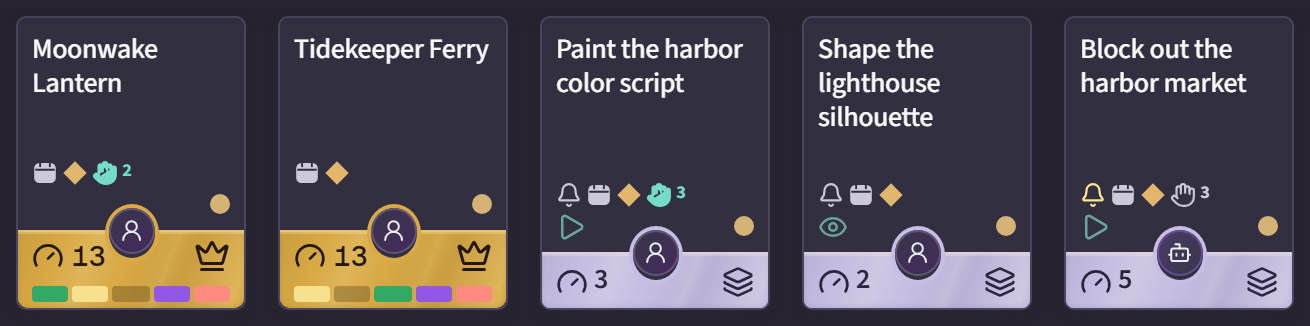
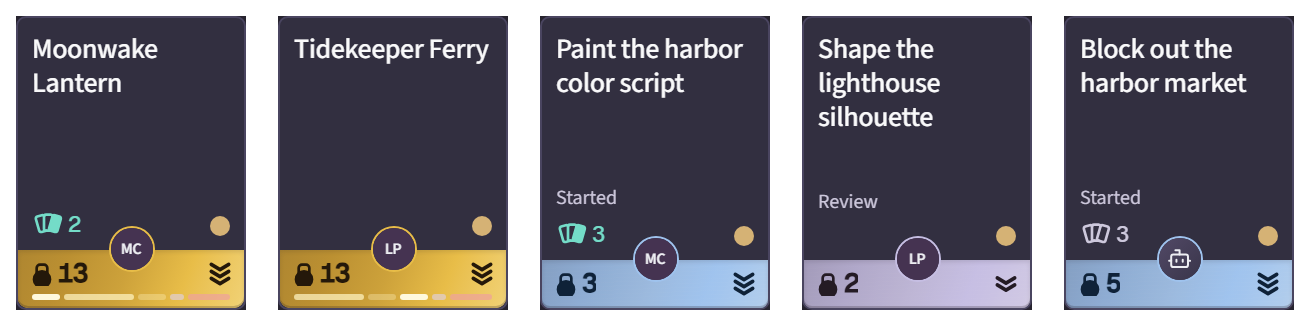
fix(desktop): start screen in the current design and a passing shell smoke
The launcher art and layout follow the board's tiles in both themes; the
smoke script matches the current shell steps.

diff --git a/tools/desktop-smoke.ts b/tools/desktop-smoke.ts
@@ -197,7 +197,8 @@ async function pasteInEditors(boardOrigin: string): Promise<void> {
   await shortcut('z', 'KeyZ', 90);
   await poll(async () => (await page!.evaluate(`document.querySelector('.card-edit-text').value === window.__smokeCardBeforePaste`)) === true,
     'Undo to restore the card before closing its editor', 5000);
-  await page!.evaluate(`document.querySelector('.card-edit .is-cancel').click()`);
+  // 2026-11-11: the editor footer is portaled outside its form, so Cancel belongs to the footer, not .card-edit.
+  await page!.evaluate(`document.querySelector('.card-edit-footer .is-cancel:not(:disabled)').click()`);
   await poll(async () => (await page!.evaluate(`!document.querySelector('.card-edit-text') && !document.querySelector('.global-tabs button:last-child').disabled`)) === true,
     'the unchanged card editor to close', 5000);
   pass('b-card-paste', 'CDP Ctrl+V reached the real card editor; Undo restored its text without saving');
@@ -235,10 +236,12 @@ async function pasteInEditors(boardOrigin: string): Promise<void> {
 
 function switchProjectShortcut(pid: number): void {
   // 2026-11-09: CDP input reaches only the renderer, so native AcceleratorKeyPressed needs Win32 virtual-key input.
+  // 2026-11-11: raising a background debug window needs both the foreground and target input queues attached.
   execFileSync('powershell', ['-NoProfile', '-NonInteractive', '-Command', `
     Add-Type -TypeDefinition 'using System; using System.Runtime.InteropServices; public class DeckmateKeys {
       [DllImport("user32.dll")] public static extern IntPtr GetForegroundWindow();
       [DllImport("user32.dll")] static extern bool SetForegroundWindow(IntPtr hwnd);
+      [DllImport("user32.dll")] static extern bool BringWindowToTop(IntPtr hwnd);
       [DllImport("user32.dll")] static extern bool ShowWindowAsync(IntPtr hwnd, int command);
       [DllImport("user32.dll")] static extern uint GetWindowThreadProcessId(IntPtr hwnd, IntPtr process);
       [DllImport("user32.dll")] static extern bool AttachThreadInput(uint from, uint to, bool attach);
@@ -248,16 +251,23 @@ function switchProjectShortcut(pid: number): void {
         ShowWindowAsync(hwnd, 9);
         uint foreground = GetWindowThreadProcessId(GetForegroundWindow(), IntPtr.Zero);
         uint current = GetCurrentThreadId();
+        uint target = GetWindowThreadProcessId(hwnd, IntPtr.Zero);
         bool attached = foreground != current && AttachThreadInput(current, foreground, true);
-        SetForegroundWindow(hwnd);
-        if (attached) AttachThreadInput(current, foreground, false);
+        bool targetAttached = target != current && target != foreground && AttachThreadInput(current, target, true);
+        try {
+          BringWindowToTop(hwnd);
+          SetForegroundWindow(hwnd);
+        } finally {
+          if (targetAttached) AttachThreadInput(current, target, false);
+          if (attached) AttachThreadInput(current, foreground, false);
+        }
       }
     }';
     $window = (Get-Process -Id ${pid}).MainWindowHandle;
     if ($window -eq 0) { throw 'Main window not found'; }
     [DeckmateKeys]::Focus($window);
     Start-Sleep -Milliseconds 200;
-    if ([DeckmateKeys]::GetForegroundWindow() -ne $window) { throw 'Could not focus the debug window'; }
+    if ([DeckmateKeys]::GetForegroundWindow() -ne $window) { throw "Could not focus the debug window: expected=$window; actual=$([DeckmateKeys]::GetForegroundWindow())"; }
     [DeckmateKeys]::keybd_event(0x11, 0, 0, [UIntPtr]::Zero);
     [DeckmateKeys]::keybd_event(0x10, 0, 0, [UIntPtr]::Zero);
     [DeckmateKeys]::keybd_event(0x50, 0, 0, [UIntPtr]::Zero);
@@ -411,18 +421,23 @@ async function main(): Promise<number> {
     // 2026-11-09: writeText needs a focused document; when another window owns the desktop focus the
     // check failed with "Document is not focused", so the page is told it has focus for this step.
     await page!.send('Emulation.setFocusEmulationEnabled', { enabled: true });
-    const clipboard = await page!.callFunction(`async () => {
-      try {
-        await navigator.clipboard.writeText('deckmate-smoke');
-        let readDenied = false;
-        try { await navigator.clipboard.readText(); } catch { readDenied = true; }
-        return { written: true, readDenied };
-      } catch (error) { return { written: false, error: String(error) }; }
-    }`);
-    if (!clipboard.written || !clipboard.readDenied) {
+    // 2026-11-11: focus alone is not user activation; CDP supplies the gesture context without granting clipboard permissions.
+    const clipboardResponse = await page!.send('Runtime.evaluate', {
+      expression: `(async () => {
+        try {
+          await navigator.clipboard.writeText('deckmate-smoke');
+          let readDenied = false;
+          try { await navigator.clipboard.readText(); } catch { readDenied = true; }
+          return { written: true, readDenied };
+        } catch (error) { return { written: false, error: String(error) }; }
+      })()`,
+      userGesture: true, returnByValue: true, awaitPromise: true,
+    });
+    const clipboard = clipboardResponse.result?.result?.value;
+    if (!clipboard?.written || !clipboard.readDenied) {
       throw new SmokeFailure(`clipboard write/read policy failed: ${JSON.stringify(clipboard)}`);
     }
-    pass('b-clipboard', 'clipboard.writeText resolved; clipboard.readText was denied');
+    pass('b-clipboard', 'clipboard.writeText resolved with a user gesture; clipboard.readText was denied');
     const notification = await page!.callFunction(`() => Notification.requestPermission()`);
     if (notification !== 'denied') throw new SmokeFailure(`notifications were not denied: ${notification}`);
     pass('b-notifications', 'Notification.requestPermission resolved denied without a prompt');
@@ -611,8 +626,9 @@ async function main(): Promise<number> {
       }
       await page!.callFunction(`() => removeRecent('C:\\\\missing-smoke-project')`);
       if ((await page!.evaluate(`document.getElementById('status').dataset.phase`)) !== 'error') throw new SmokeFailure('removeRecent UI hid a failed save');
-      await page!.evaluate(`document.querySelector('[data-lang="en"]').click()`);
-      await poll(async () => (await page!.evaluate(`document.getElementById('status').dataset.phase === 'error' && document.getElementById('status-text').textContent.includes('Could not save settings')`)) === true,
+      // 2026-11-11: a failed language save keeps the existing UI locale; clear the earlier error to verify this click reports its own.
+      await page!.evaluate(`setStatus(null); document.querySelector('[data-lang="en"]').click()`);
+      await poll(async () => (await page!.evaluate(`document.getElementById('status').dataset.phase === 'error' && document.getElementById('status-text').textContent.startsWith(document.documentElement.lang === 'ru' ? 'Не удалось сохранить настройки.' : 'Settings could not be saved.')`)) === true,
         'language save error to reach the status line', 5000);
     } finally {
       rmSync(settingsFile, { recursive: true, force: true });
@@ -926,11 +942,19 @@ async function main(): Promise<number> {
         `failed auto-open ${attempt} to return to a loaded launcher with an error`, 30000);
         // Let late NavigationCompleted events arrive before checking that the cause stayed intact.
         await sleep(1000);
-        const message = String(await page!.evaluate(`document.getElementById('status-text').textContent`));
+        // 2026-11-11: the status gives recovery advice; the original server refusal is shown under Technical details.
+        await page!.evaluate(`document.querySelector('#status-details > summary').click()`);
+        const failure = await page!.callFunction(`() => ({
+          message: document.getElementById('status-text').textContent,
+          technical: document.getElementById('status-technical').textContent,
+          detailsVisible: !document.getElementById('status-details').hidden && document.getElementById('status-details').open,
+        })`);
         const failureLog = readFileSync(path.join(settings, 'server.log'), 'utf8').slice(beforeFailureLog.length);
-        if (!message.includes('The path is outside the project.') || message.includes('WebView2')
+        if (!failure.detailsVisible || !failure.message.startsWith('The local server could not start.')
+          || !failure.technical.includes('The path is outside the project.')
+          || failure.message.includes('WebView2') || failure.technical.includes('WebView2')
           || !failureLog.includes('project launch failed:') || !failureLog.includes('The path is outside the project.')) {
-          throw new SmokeFailure(`failed auto-open ${attempt} lost the server refusal: ${message}`);
+          throw new SmokeFailure(`failed auto-open ${attempt} lost the server refusal: ${JSON.stringify(failure)}`);
         }
       } catch (error) {
         throw new SmokeFailure(`${(error as Error).message} (${await diagnose(settings)})`);
@@ -941,7 +965,7 @@ async function main(): Promise<number> {
       await poll(async () => serverProcesses(needles).length === 0,
         `failed auto-open ${attempt} to leave no server`, 10000);
     }
-    pass('startup-failure', 'three consecutive lastProject launches kept the real server refusal on the loaded launcher and in server.log, not a WebView2 error');
+    pass('startup-failure', 'three consecutive lastProject launches kept the real server refusal in the launcher technical details and server.log, not a WebView2 error');
 
     pass('smoke', 'all steps passed');
     return 0;
@@ -955,7 +979,8 @@ async function main(): Promise<number> {
       if (page) await page.close();
     } catch { /* the shell is already gone */ }
     await sleep(500);
-    rmSync(temp, { recursive: true, force: true });
+    // 2026-11-11: WebView2 can briefly retain profile handles after taskkill; retry only this run's temporary folder.
+    rmSync(temp, { recursive: true, force: true, maxRetries: 15, retryDelay: 100 });
   }
 }
 

diff --git a/tools/launcher-capture.ts b/tools/launcher-capture.ts
@@ -15,7 +15,7 @@ const output = process.env.DECKMATE_LAUNCHER_CAPTURE_OUTPUT || path.join(here, '
 
 interface Frame {
   name: string; theme: 'dark' | 'light'; lang: 'en' | 'ru'; size: [number, number]; page?: 'whats-new';
-  state?: 'empty' | 'error' | 'hover-row' | 'focus-open' | 'focus-row' | 'focus-workspace';
+  state?: 'empty' | 'one' | 'error' | 'hover-row' | 'focus-open' | 'focus-row' | 'focus-workspace';
   scenario?: 'empty' | 'many' | 'missing' | 'opening' | 'error' | 'create';
   error?: string; zoom?: number; reducedMotion?: boolean;
   expand?: 'templates' | 'details';
@@ -50,6 +50,10 @@ const errorCodes = ['invalid-path', 'missing', 'not-empty', 'create-failed', 'st
 for (const theme of ['dark', 'light'] as const) {
   for (const lang of ['en', 'ru'] as const) {
     for (const size of [[960, 600], [1280, 820]] as [number, number][]) {
+      if ((theme === 'dark' && lang === 'ru') || (theme === 'light' && lang === 'en')) {
+        frames.push({ name: `${theme}-${lang}-${size[0]}`, theme, lang, size, covers: size[1] > 680 ? 'visible' : 'hidden' });
+      }
+      frames.push({ name: `${theme}-${lang}-one-${size[0]}`, theme, lang, size, state: 'one' });
       for (const scenario of ['empty', 'many', 'missing', 'opening', 'create'] as const) {
         frames.push({ name: `${theme}-${lang}-${scenario}-${size[0]}`, theme, lang, size, scenario });
       }
@@ -82,6 +86,7 @@ const STATE_SCRIPTS: Record<string, string> = {
   empty: `document.getAnimations().forEach(a => a.finish());
     state.recent = []; state.workspace = []; renderWorkspace(); renderRecent();
     document.getElementById('open-folder').focus();`,
+  one: `state.recent = [state.recent[0]]; state.workspace = []; renderWorkspace(); renderRecent();`,
   error: `document.getAnimations().forEach(a => a.finish()); document.getElementById('open-folder').click();`,
   'hover-row': `document.getAnimations().forEach(a => a.finish()); document.querySelectorAll('.recent-item')[1].classList.add('is-hover-demo');`,
   'focus-open': `document.getAnimations().forEach(a => a.finish())`,
@@ -89,9 +94,9 @@ const STATE_SCRIPTS: Record<string, string> = {
   'focus-workspace': `document.getAnimations().forEach(a => a.finish())`,
 };
 const FOCUS_CHECKS: Record<string, string> = {
-  'focus-open': `document.activeElement === document.getElementById('open-folder')`,
-  'focus-row': `document.activeElement === document.querySelector('#recent-list .recent-open')`,
-  'focus-workspace': `document.activeElement === document.querySelector('#workspace-list .recent-open')`,
+  'focus-open': `document.getElementById('open-folder').matches(':focus-visible')`,
+  'focus-row': `document.querySelector('#recent-list .recent-open').matches(':focus-visible')`,
+  'focus-workspace': `document.querySelector('#workspace-list .recent-open').matches(':focus-visible')`,
 };
 const MAX_TAB_PRESSES = 48;
 
@@ -182,6 +187,41 @@ async function verifyLauncherInteractions(page: HeadlessPage): Promise<void> {
   console.log('keyboard: Enter, arrows, superseding launch, translated recovery, Escape and Delete passed');
 }
 
+async function verifyControlStates(page: HeadlessPage): Promise<void> {
+  await navigateAndWait(page, 'pointer checks');
+  await waitForPageReady(page, 'pointer checks');
+  const point = async (selector: string) => page.callFunction(`selector => {
+    const box = document.querySelector(selector).getBoundingClientRect();
+    return { x: box.x + box.width / 2, y: box.y + box.height / 2 };
+  }`, selector);
+  const move = async (coordinates: { x: number; y: number }, buttons = 0) => page.send('Input.dispatchMouseEvent', { type: 'mouseMoved', ...coordinates, buttons });
+  const appearance = `(() => { const style = getComputedStyle(document.getElementById('open-folder')); return [style.backgroundColor, style.color, style.opacity].join('|'); })()`;
+  await move({ x: 0, y: 0 });
+  const idle = await page.evaluate(appearance);
+  const open = await point('#open-folder');
+  await move(open);
+  await sleep(150);
+  if (await page.evaluate(appearance) === idle) throw new Error('Pointer: the primary button has no hover feedback');
+  await page.send('Input.dispatchMouseEvent', { type: 'mousePressed', ...open, button: 'left', buttons: 1, clickCount: 1 });
+  await sleep(150);
+  const press = await page.evaluate(`new DOMMatrixReadOnly(getComputedStyle(document.getElementById('open-folder')).transform).m42`);
+  if (Math.abs(press - 1) > .05) throw new Error(`Pointer: expected a 1px press, got ${press}`);
+  await move({ x: 0, y: 0 }, 1);
+  await page.send('Input.dispatchMouseEvent', { type: 'mouseReleased', x: 0, y: 0, button: 'left', buttons: 0, clickCount: 1 });
+  await sleep(50);
+  if (await page.evaluate(appearance) !== idle) throw new Error('Pointer: the button hover did not clear immediately');
+  const row = `getComputedStyle(document.querySelector('#last-list .recent-open')).backgroundColor`;
+  const rowIdle = await page.evaluate(row);
+  await move(await point('#last-list .recent-open'));
+  await sleep(150);
+  if (await page.evaluate(row) === rowIdle) throw new Error('Pointer: the project row has no hover feedback');
+  await move(await point('#recent-list .recent-open'));
+  await sleep(50);
+  if (await page.evaluate(row) !== rowIdle) throw new Error('Pointer: the project row hover did not clear immediately');
+  await move({ x: 0, y: 0 });
+  console.log('pointer: hover, immediate exit and press passed');
+}
+
 interface Shot { name: string; width: number; height: number; bytes: number; sha256: string; zoom?: number }
 
 async function verifyCovers(page: HeadlessPage, frame: Frame): Promise<void> {
@@ -230,6 +270,18 @@ async function verifyCovers(page: HeadlessPage, frame: Frame): Promise<void> {
       image.src = background.slice(5, -2);
       try { await image.decode(); } catch { return 'cover art did not load'; }
       if (!image.naturalWidth || !image.naturalHeight) return 'cover art is empty';
+    }
+    const fan = [...table.querySelectorAll('.fan-card')];
+    if (fan.length !== 3) return 'expected three cards in the fan';
+    for (const card of fan) {
+      const background = getComputedStyle(card).backgroundImage;
+      if (!background.startsWith('url("') || !background.endsWith('")')) return 'card art is missing';
+      const source = background.slice(5, -2);
+      const expectedFile = document.documentElement.classList.contains('dark') ? 'cards.png' : 'cards-light.png';
+      if (!new URL(source).pathname.endsWith('/' + expectedFile)) return 'card art does not match the theme';
+      const image = new Image(); image.src = source;
+      try { await image.decode(); } catch { return 'card art did not load'; }
+      if (image.naturalWidth !== 1310 || image.naturalHeight !== 326) return 'card art has unexpected dimensions';
     }
     return '';
   }`, frame.covers);
@@ -360,6 +412,7 @@ async function main(): Promise<void> {
     await mkdir(output, { recursive: true });
     await navigateAndWait(page, 'initial load');
     await verifyLauncherInteractions(page);
+    await verifyControlStates(page);
     const shots: Shot[] = [];
     for (const frame of frames) shots.push(await captureFrame(page, frame, path.join(output, `${frame.name}.png`)));
     await sleep(300);

diff --git a/desktop/launcher/launcher.css b/desktop/launcher/launcher.css
@@ -98,15 +98,15 @@ button { font: inherit; color: inherit; }
   box-shadow: inset 0 0 0 1px rgb(48 36 56 / .1), 0 3px 0 var(--count-foot), 0 5px 5px -2px rgb(0 0 0 / .32);
 }
 .fan { position: absolute; right: 4px; bottom: 6px; width: 230px; height: 190px; transform: scale(.4); transform-origin: 100% 100%; z-index: 1; }
-/* The hand holds real cards: crops of the same rendered sheet the social preview fans out (docs/social-cards.png,
-   five cards at a 131px pitch when shown at half size), so the launcher shows the board's own material. */
+/* 2026-11-11: theme-specific board crops keep the fan's materials and owner medallions consistent with the board. */
 .fan-card {
   position: absolute; left: calc(50% - 58px); bottom: 36px; width: 115px; height: 147px; border-radius: 6px;
-  background: #1c1a24; box-shadow: var(--card-hover-shadow), 0 0 0 1px #ffffff26;
+  background: var(--sidebar) url('art/cards-light.png') calc(-8px - 131px * var(--i)) -8px / 655px 163px no-repeat;
+  box-shadow: var(--card-hover-shadow), 0 0 0 1px #ffffff26;
   transform-origin: 50% 120%; overflow: hidden;
 }
-.fan-card img { position: absolute; top: -8px; left: calc(-8px - 131px * var(--i)); width: 655px; height: 163px; max-width: none; display: block; }
-.fan-card-doc { transform: rotate(-10deg) translateX(-16px); }
+:root.dark .fan-card { background-image: url('art/cards.png'); }
+.fan-card-review { transform: rotate(-10deg) translateX(-16px); }
 .fan-card-task { transform: translateY(-8px); z-index: 1; }
 .fan-card-hero { transform: rotate(10deg) translateX(22px); z-index: 2; }
 

diff --git a/desktop/launcher/index.html b/desktop/launcher/index.html
@@ -55,9 +55,9 @@
           </div>
         </div>
         <div class="fan">
-          <div class="fan-card fan-card-doc" style="--i: 2"><img src="art/cards.png" alt=""></div>
-          <div class="fan-card fan-card-task" style="--i: 4"><img src="art/cards.png" alt=""></div>
-          <div class="fan-card fan-card-hero" style="--i: 0"><img src="art/cards.png" alt=""></div>
+          <div class="fan-card fan-card-review" style="--i: 3"></div>
+          <div class="fan-card fan-card-task" style="--i: 2"></div>
+          <div class="fan-card fan-card-hero" style="--i: 0"></div>
         </div>
       </div>
     </section>
